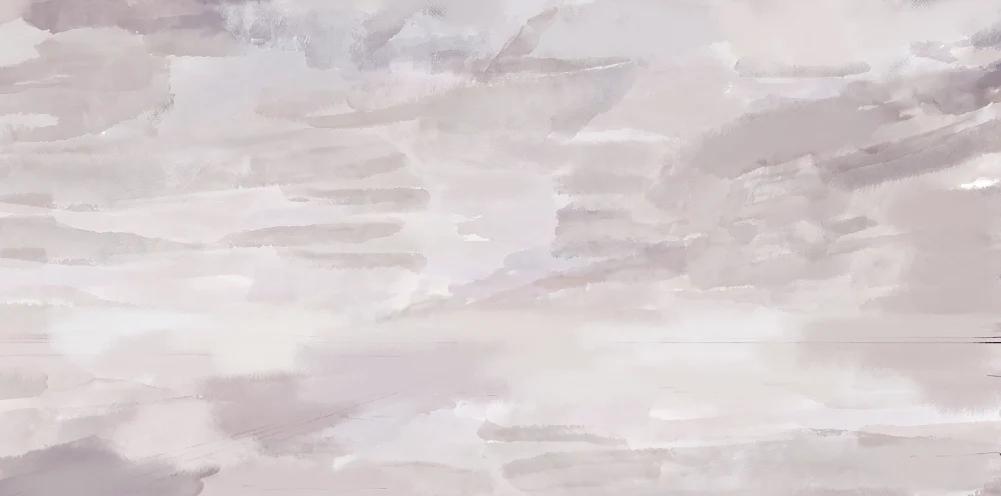
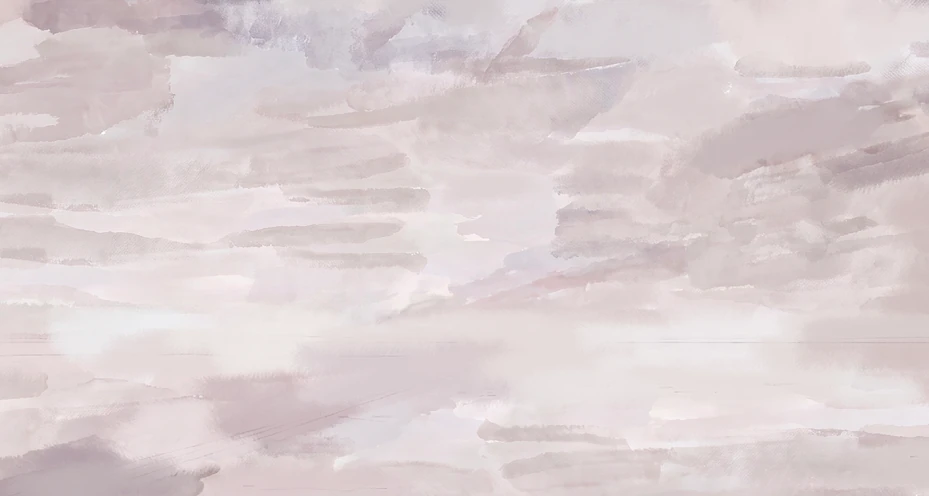
fix(city): take the viewport and the top menu from the current mockup
Окно вьюпорта стояло 1000.5 px по сцене — ширина от прежнего макета.
Текущий «Фон основного мнею Магазин» рисует его 928.5 (слой «Слой 15»,
холст 1857x992), и ровно этот размер имеет viewport-frame.png. Рамку
растягивало на 72 px, а всё внутри окна уезжало вправо относительно
рисунка: кнопка корзины, прижатая margin-left:auto, сетка карточек,
полоса вкладок категорий.

Вместе с окном на те же 72 px была растянута полоса районов. Небо
вьюпорта пересобрано из слоя «Слой 22» макета в родные 1857x992
вместо прежних 2001x992.

Координаты «Радио» сняты со слоя макета: 1039 / 5.5 / 57 вместо
1035 / 4 / 62 — остальные шесть пунктов верхнего ряда сходились точно,
этот один был подобран.

Рамка вкладки района кладётся border-image вместо растянутой картинки:
плашка nav-frame.png нарисована 276x54, а вкладки бывают и 116.5, и
192.5 по сцене — целиком растянутая тушь деформировала углы. Теперь
тянется только середина линии, срезы сняты с ассета.

Нижняя полоса комнат в макете не нарисована вовсе; её правый край
привязан к правому краю вьюпорта, чтобы она не висела сама по себе.

Сверка после правки: 8 из 8 замеров совпадают с макетом с дельтой 0.

diff --git a/frontend/src/shared/lib/layout-map.ts b/frontend/src/shared/lib/layout-map.ts
@@ -26,16 +26,19 @@ export const MENU = {
     { key: 'updates', label: 'обновления', x: 492, y: 5.5, w: 115, to: '/updates', action: false },
     { key: 'forum', label: 'форум', x: 654, y: 4, w: 65.5, to: '/forum', action: false },
     { key: 'profile', label: 'профиль', x: 789.5, y: 4, w: 86, to: '/profile', action: false },
-    // Радио стоит между профилем и выходом — координаты сняты с макета
-    // «Фон основного меню Магазин» и пересчитаны в систему сцены.
-    { key: 'radio', label: 'радио', x: 1035, y: 4, w: 62, to: '/radio', action: false },
+    // Радио стоит между профилем и выходом. Координаты сняты со слоя
+    // «Радио» макета «Фон основного мнею Магазин» (холст 2078,11 · 114×34).
+    { key: 'radio', label: 'радио', x: 1039, y: 5.5, w: 57, to: '/radio', action: false },
   ],
   navExit: { label: 'выход', x: 1471.5, y: 5.5, w: 60 },
   navFontSize: 21.9,
   navDy: -2,
 
   /** районы города — переключают содержимое центрального вьюпорта */
-  districtStrip: box(340.5, 91.5, 976.5, 27),
+  // Полоса от левого края первой плашки макета (холст 681) до правого края
+  // последней (холст 2490): 1809 холста -> 904.5 сцены. Раньше стояло 976.5 —
+  // ширина от старого макета, где вьюпорт был на 72 px шире.
+  districtStrip: box(340.5, 91.5, 904.5, 27),
   districtGap: 8,
   districts: [
     { key: 'center', label: 'Центр', to: '/' },
@@ -48,7 +51,10 @@ export const MENU = {
   ],
 
   /** Нижняя полоса показывает комнаты выбранного района, без повторов из самой сцены. */
-  bottomStrip: box(356, 623, 961, 28),
+  // Этой полосы в макете нет: между низом вьюпорта (618.5) и плашкой чата
+  // (704.5) там чистое поле. Ряд придуман разработкой, поэтому привязан к
+  // вьюпорту — правый край совпадает с его правым краем (1245).
+  bottomStrip: box(356, 623, 889, 28),
   bottomGap: 10,
   rooms: {
     center: [
@@ -82,8 +88,13 @@ export const MENU = {
   bottomFontSize: 15.1,
   bottomDy: -1,
 
-  /** центральная область: сюда рендерится содержимое экрана */
-  viewport: box(316.5, 122.5, 1000.5, 496),
+  /** Центральная область: сюда рендерится содержимое экрана.
+      Габариты — слой «Слой 15» макета «Фон основного мнею Магазин»
+      (холст 633,245 · 1857×992), то есть ровно родной размер
+      viewport-frame.png. Раньше стояло 1000.5: ширина от прежнего
+      макета, из-за неё рамка растягивалась на 72 px и всё внутри
+      вьюпорта уезжало вправо относительно рисунка. */
+  viewport: box(316.5, 122.5, 928.5, 496),
 
   /** левая карточка «личное дело» */
   card: {

diff --git a/frontend/src/styles/theme.css b/frontend/src/styles/theme.css
@@ -260,13 +260,22 @@ html, body {
   color: #000;
   cursor: pointer;
 }
+/* Рамка вкладки кладётся border-image, а не растянутой картинкой.
+   Ассет nav-frame.png — плашка 276x54 из макета, то есть ровно 2x
+   к высоте полосы (27 px сцены). По вертикали он и так ложится 1:1,
+   а вот по горизонтали вкладки шире и уже макетной: «ЦЕНТР» — 116.5,
+   «Спальный район» — 192.5. Растянутая целиком картинка деформировала
+   углы и засечки. Срезы сняты с ассета: тушь занимает 14 px слева
+   (там двойная линия), 12 справа и по 6 сверху и снизу, то есть
+   7, 6 и 3 px в масштабе сцены. Тянется только середина линии. */
 .stage-nav__frame {
   position: absolute;
   inset: 0;
-  width: 100%;
-  height: 100%;
   display: block;
   pointer-events: none;
+  border-style: solid;
+  border-width: 3px 6px 3px 7px;
+  border-image: url('../shared/assets/ui/nav-frame.png') 6 12 6 14 / 3px 6px 3px 7px stretch;
 }
 /* Подпись лежит в потоке и задаёт ширину кнопки; рамка ушла под неё
    абсолютом. Пока подпись была absolute, кнопка не имела собственной

diff --git a/frontend/src/widgets/city-nav/city-nav.tsx b/frontend/src/widgets/city-nav/city-nav.tsx
@@ -4,7 +4,6 @@ import { useQueryClient } from '@tanstack/react-query'
 
 import { MENU } from '../../shared/lib/layout-map'
 import { FitText, type StageBox } from '../../shared/lib/stage'
-import { SPRITES } from '../../shared/ui/sprite'
 import { useAuth } from '../../app/providers/auth-provider'
 import { authApi } from '../../shared/api/auth.api'
 
@@ -92,7 +91,7 @@ function FramedTabs({
             title={locked ? 'Откроется на следующих этапах' : tab.label}
             data-stage-nav={tab.key}
           >
-            <img className="stage-nav__frame" src={SPRITES['nav-frame']} alt="" draggable={false} />
+            <span className="stage-nav__frame" aria-hidden="true" />
             <FittedNavLabel>{tab.label}</FittedNavLabel>
           </button>
         )
